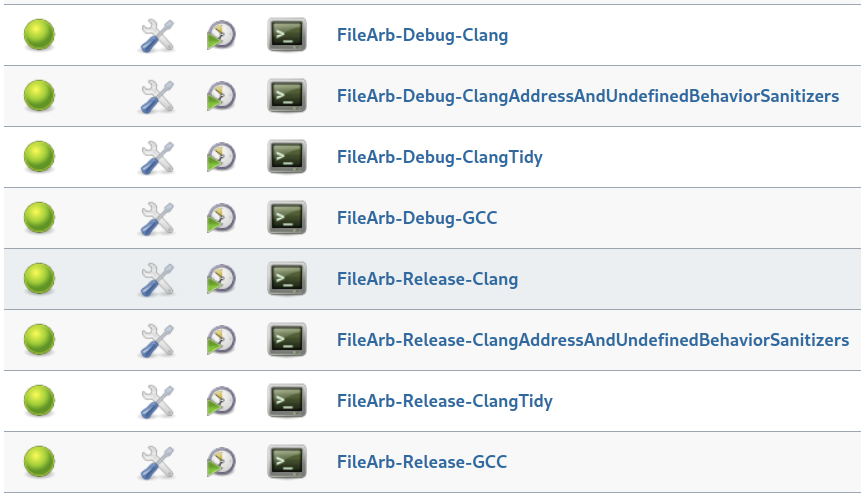
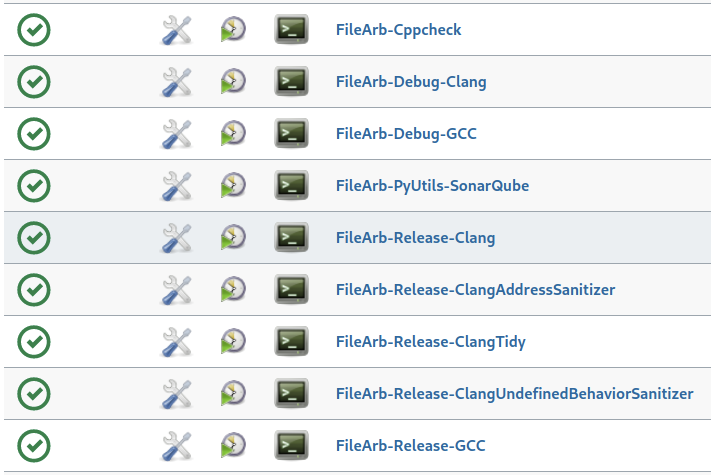
Update Linux Jenkins jobs screenshot

Changed region(s): [[0.0, 0.0, 1.0, 1.0]]

diff --git a/README.md b/README.md
@@ -19,10 +19,10 @@ FileArb is rigorously unit tested with <a href="https://github.com/NeilJustice/Z
    * [create-binary-file](#create-binary-file)
    * [create-binary-files](#create-binary-files)
    * [create-text-file](#create-text-file)
-   * [create-text-files](#create-text-files)   
+   * [create-text-files](#create-text-files)
 * [FileArb Code Structure As It Appears In Visual Studio Code](#filearb-code-structure-as-it-appears-in-visual-studio-code)
 * [FileArb Code Structure As It Appears In Visual Studio 2019](#filearb-code-structure-as-it-appears-in-visual-studio-2019)
-* [Linux Jenkins Jobs Which Build, clang-tidy, AddressSanitize and UndefinedBehaviorSanitize FileArb](#linux-jenkins-jobs-which-build-clang-tidy-addresssanitize-and-undefinedbehaviorsanitize-filearb)
+* [Linux Jenkins Jobs Which Build, clang-tidy, Cppcheck, AddressSanitize, and UndefinedBehaviorSanitize FileArb](#linux-jenkins-jobs-which-build-clang-tidy-cppcheck-addresssanitize-and-undefinedbehaviorsanitize-filearb)
 * [Windows Jenkins Jobs Which Build FileArb And SonarQube Scan FileArb's Python Code](#windows-jenkins-jobs-which-build-filearb-and-sonarqube-scan-filearbs-python-code)
 * [How To Build Binary filearb On Linux With Clang](#how-to-build-binary-filearb-on-linux-with-clang)
 * [How To Build Executable FileArb.exe On Windows With Visual Studio 2019](#how-to-build-executable-filearbexe-on-windows-with-visual-studio-2019)
@@ -141,17 +141,17 @@ FileArb program mode `create-text-files` creates at a specified directory a spec
 
 ![FileArb Code Structure As It Appears In Visual Studio 2019](Screenshots/Windows/FileArbCodeStructureAsItAppearsInVisualStudio2019.png)
 
-## Linux Jenkins Jobs Which Build, clang-tidy, AddressSanitize and UndefinedBehaviorSanitize FileArb
+## Linux Jenkins Jobs Which Build, clang-tidy, Cppcheck, AddressSanitize, and UndefinedBehaviorSanitize FileArb
 
 A Jenkins Blue Ocean build pipeline builds the following FileArb Jenkins jobs on Fedora 33:
 
-![Linux Jenkins Jobs Which Build, clang-tidy, AddressSanitize, UndefinedBehaviorSanitize, and ThreadSanitize FileArb](Screenshots/Linux/LinuxFileArbJenkinsJobs.png)
+![Linux FileArb Jenkins Jobs](Screenshots/Linux/LinuxFileArbJenkinsJobs.png)
 
 ## Windows Jenkins Jobs Which Build FileArb And SonarQube Scan FileArb's Python Code
 
 A Jenkins Blue Ocean build pipeline builds the following FileArb Jenkins jobs on Windows 10:
 
-![Windows Jenkins Jobs Which Compile FileArb](Screenshots/Windows/WindowsJenkinsJobs.png)
+![Windows FileArb Jenkins Jobs](Screenshots/Windows/WindowsJenkinsJobs.png)
 
 ## How To Build Binary filearb On Linux With Clang
 
@@ -181,12 +181,10 @@ Resulting executable `C:\bin\FileArb.exe`:
 
 ## FileArb Roadmap
 
-|Future FileArb Feature|Implementation Status As Of 3/5/2021|
+|Future FileArb Feature|Implementation Status As Of 3/15/2021|
 |----------------------|------------------------------------|
-|Linux and Windows SonarQube Python static analysis Jenkins jobs|In progress|
 |GitHub Actions build|Awaiting implementation|
-|SonarCloud Python static analysis badge|Awaiting implementation|
-|Linux and Windows SonarQube C++ static analysis Jenkins jobs|Awaiting implementation|
-|SonarCloud C++ static analysis badge|Awaiting implementation|
-|Coverity static analysis badge|Awaiting implementation|
+|SonarCloud Python badge for FileArbPyUtils|Awaiting implementation|
+|SonarCloud C++ badge|Awaiting implementation|
+|Coverity C++ static analysis badge|Awaiting implementation|
 |Automated acceptance testing|Awaiting implementation|
